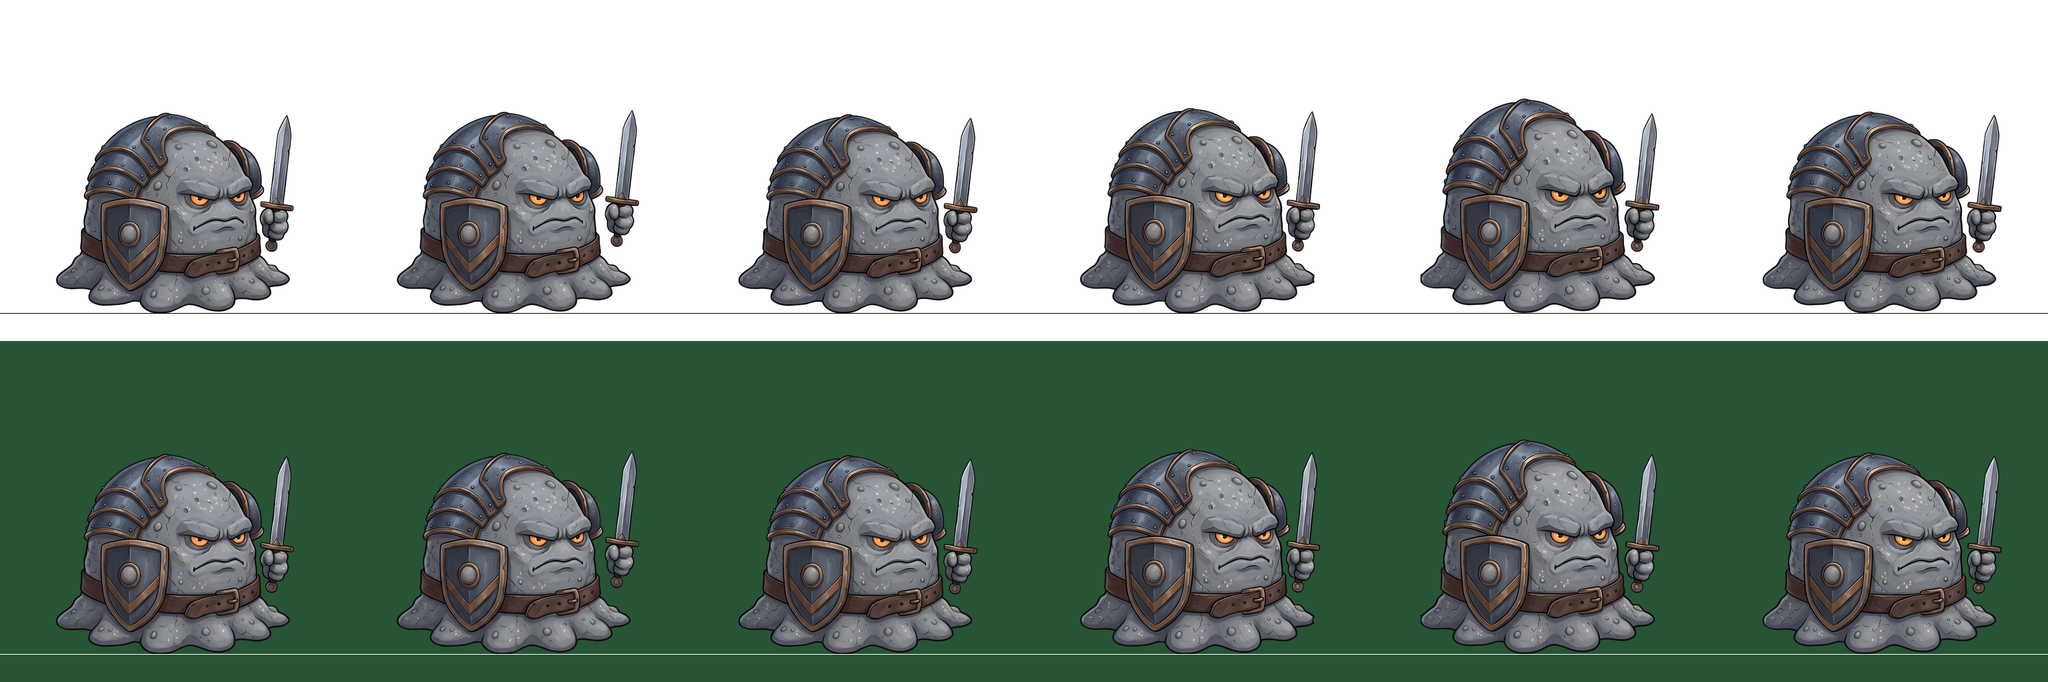
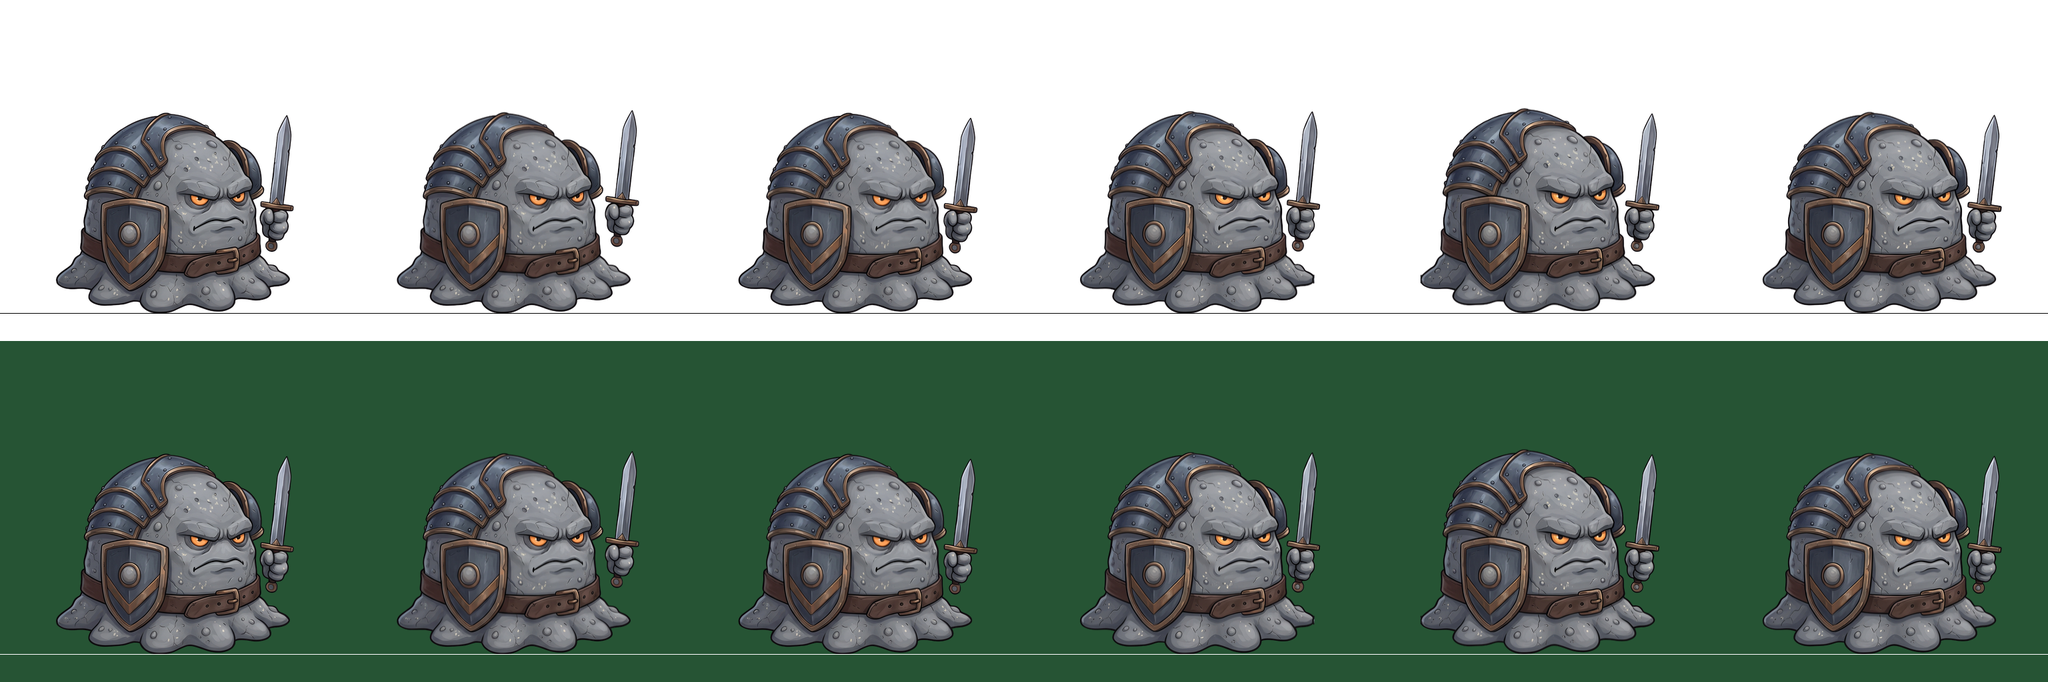
Elite slime: idle head toned down (dome warp keeps 30%), Sword Slash prompt
make_elite_idle_strip.py warps the body per frame through the measured rows (dome top range 24 px -> 7 px, fist untouched); sword_slash prompt (8 frames, overhead chop, hit frame 6); docs.

diff --git a/Animations/EliteSlime/idle/source/make_elite_idle_strip.py b/Animations/EliteSlime/idle/source/make_elite_idle_strip.py
@@ -1,11 +1,16 @@
 #!/usr/bin/env python3
 """Cuts the Elite slime's idle sheet (the user's Gemini JPG, 2528 x 1696, six panels, 3 x 2, 2026-11-10) into the 6-frame strip.
 
-  python Animations/EliteSlime/idle/source/make_elite_idle_strip.py [base_width]
+  python Animations/EliteSlime/idle/source/make_elite_idle_strip.py [base_width [keep]]
 
 elite_panels.load_panels (the lightning loader's cousin: the body is the biggest piece, the floating fist with its sword is kept and goes to the body it is nearest to; the generator drew the skirts of panels 4 and 5
-touching, they are split in the valley between them). Every panel is scaled so that its BASE is BASE_W px wide (default 350: the slimes' standard; at 300 the Elite came out smaller than the ice slime, the weakest of the others),
-stands on y 470 (the body's lowest point) with the base centre on x 259, and is written into a 512 px cell.
+touching, they are split in the valley between them). Every panel is scaled so that its BASE is BASE_W px wide (default 350: the slimes' standard), stands on y 470 (the body's lowest point) with the base centre
+on x 259, and is written into a 512 px cell.
+
+TONING THE HEAD DOWN (2026-11-10, the user: "head part bounce so much"). Measured on the cut strip (per part, rows against frame 1): the dome's top plate rises up to 21 px in frame 5 (7% of the figure), the face
+only 3, the shield 6, the belt 3, the skirt 0: the generator stretched the DOME upward far more than the prompt's 2%. So the body (not the fist and sword) is warped vertically, per frame, by a piecewise-linear
+row shift through the measured rows (skirt, belt, shield, face, top of the dome): only `keep` (default 0.3) of each part's measured movement is kept, the rest is taken out (keep 1 = as drawn, 0 = frozen).
+The floating fist and its sword are NOT warped: they stay the idle's visible life.
 Output: ../elite_idle_strip.png, ../elite_idle_strip.squash.json (per frame: h = height of the eyes above the ground and w = base width, against frame 1; fist = height of the fist's middle above the ground),
 ../elite_idle_check.png and a report.
 """
@@ -21,46 +26,102 @@ import elite_panels as ep
 SRC = os.path.join(HERE, "elite_idle_sheet.jpg")
 OUT = os.path.join(HERE, "..", "elite_idle_strip.png")
 BASE_W = float(sys.argv[1]) if len(sys.argv) > 1 else 350.0
+KEEP = float(sys.argv[2]) if len(sys.argv) > 2 else 0.3
 GROUND_Y, BASE_X, FRAME = 470, 259, 512
 SPLITS = [(826, 1380, 1660)]                         # the skirts of panels 4 and 5 touch at x 824 to 827 (31 px of overlap column at the narrowest)
+# rows (frame-1 coordinates, 512 cell, base 350) and column ranges of the parts whose shift is measured by matching against frame 1 (x0, x1, y0, y1)
+REGIONS = {"skirt": (100, 420, 410, 468), "belt": (100, 330, 375, 410), "shield": (100, 200, 290, 420), "face": (215, 335, 235, 330)}
+SEARCH = 30
 
 data = ep.load_panels(SRC, [3, 3], splits=SPLITS); P = data["panels"]
-out = Image.new("RGBA", (FRAME * 6, FRAME), (0, 0, 0, 0))
-rows = []
-print("panel | base w (sheet px) | scale | eyes above ground | base w | fist mid above ground | fist gap to body | figure top y | clipped | x range")
-for k, q in enumerate(P):
+
+
+def layers(q):
+    """(scale, ox, oy, full, body, fist): the panel placed in the 512 cell as one picture, and as the body alone and the floating fist alone."""
     sc = BASE_W / float(q["bw"])
     ox = int(round(BASE_X - ep.base_mid(q) * sc)); oy = int(round(GROUND_Y - q["low"] * sc))
-    fr, clipped = ep.place(q, sc, ox, oy)
+    mb = ndi.binary_dilation(q["main"], iterations=3); mf = ndi.binary_dilation(q["fist"], iterations=3) & ~mb
+    pb = q["p"].copy(); pb[..., 3] = np.where(mb, pb[..., 3], 0)
+    pf = q["p"].copy(); pf[..., 3] = np.where(mf, pf[..., 3], 0)
+    full, clipped = ep.place(q, sc, ox, oy)
+    body, _ = ep.place(dict(q, p=pb), sc, ox, oy); fist, _ = ep.place(dict(q, p=pf), sc, ox, oy)
+    return sc, ox, oy, full, body, fist, clipped
+
+
+def gray(im):
+    f = np.array(im).astype(float); a = f[..., 3] / 255
+    return (0.3 * f[..., 0] + 0.59 * f[..., 1] + 0.11 * f[..., 2]) * a + 90 * (1 - a)
+
+
+def top_row(im):
+    return int(np.where((np.array(im)[..., 3] > 128).any(1))[0].min())
+
+
+L = [layers(q) for q in P]
+G = [gray(l[3]) for l in L]
+shifts = []                                              # per frame: {part: rows the part sits higher (-) or lower (+) than in frame 1}
+for k in range(6):
+    s = {}
+    for nm, (x0, x1, y0, y1) in REGIONS.items():
+        base = G[0][y0:y1, x0:x1]; best = None
+        for dy in range(-SEARCH, SEARCH + 1):
+            ssd = ((G[k][y0 + dy:y1 + dy, x0:x1] - base) ** 2).mean()
+            if best is None or ssd < best[0]: best = (ssd, dy)
+        s[nm] = best[1]
+    s["top"] = top_row(L[k][4]) - top_row(L[0][4])       # the dome's top edge (the silhouette: the most reliable measure of the dome's stretch)
+    shifts.append(s)
+
+
+def warp(body, s):
+    """Vertical, row by row: the part measured at row y of frame 1 moves by s(y) in this frame; the output keeps only KEEP of that movement (sampling source row y + (1 - KEEP) s(y))."""
+    ys = [468, 440, 392, 355, 282, 205, 169]
+    sv = [0, s["skirt"], s["belt"], s["shield"], s["face"], 0.5 * (s["face"] + s["top"]), s["top"]]       # (row 205: half way up the dome)
+    order = np.argsort(ys); ys = np.array(ys)[order]; sv = np.array(sv, float)[order]
+    rows = np.arange(FRAME, dtype=float)
+    d = (1 - KEEP) * np.interp(rows, ys, sv)             # np.interp holds the end values: below the skirt 0, above the dome's top the top's shift
+    src = rows + d
+    arr = np.array(body).astype(float); pm = arr.copy(); pm[..., :3] *= (arr[..., 3:4] / 255)
+    out = np.zeros_like(pm)
+    y0 = np.clip(np.floor(src).astype(int), 0, FRAME - 1); y1 = np.clip(y0 + 1, 0, FRAME - 1); t = (src - np.floor(src))[:, None, None]
+    out = pm[y0] * (1 - t) + pm[y1] * t
+    out[(src < 0) | (src > FRAME - 1)] = 0
+    a = out[..., 3:4]; rgb = np.where(a > 0.5, out[..., :3] / np.maximum(a / 255, 1e-6), 0)
+    return Image.fromarray(np.dstack([np.clip(rgb, 0, 255), a]).astype(np.uint8))
+
+
+strip = Image.new("RGBA", (FRAME * 6, FRAME), (0, 0, 0, 0))
+rows_info = []
+print("panel | shifts vs frame 1 (skirt belt shield face top) | eyes above ground | base w | fist mid above ground | fist gap | figure top y | clipped")
+for k, q in enumerate(P):
+    sc, ox, oy, full, body, fist, clipped = L[k]
+    wb = warp(body, shifts[k]) if k else body
+    fr = Image.new("RGBA", (FRAME, FRAME), (0, 0, 0, 0)); fr.alpha_composite(wb); fr.alpha_composite(fist)
     arr = np.array(fr); a = arr[..., 3] > 128; ys, xs = np.where(a)
-    # eyes: the two biggest amber blobs (orange pupils)
-    R, G, B = arr[..., 0].astype(int), arr[..., 1].astype(int), arr[..., 2].astype(int)
-    amber = a & (R > 200) & (G > 110) & (G < 215) & (B < 110)
-    amber = ndi.binary_opening(amber, structure=np.ones((3, 3)))
+    R, G_, B = arr[..., 0].astype(int), arr[..., 1].astype(int), arr[..., 2].astype(int)
+    amber = ndi.binary_opening(a & (R > 200) & (G_ > 110) & (G_ < 215) & (B < 110), structure=np.ones((3, 3)))
     lab, n = ndi.label(amber); ey = None
     if n:
         sz = ndi.sum(amber, lab, range(1, n + 1)); top2 = np.argsort(sz)[::-1][:2]
         ey = float(np.mean([ndi.center_of_mass(lab == (i + 1))[0] for i in top2]))
-    # the fist and sword: the detached pieces' middle and their gap to the body (at the scaled size)
-    fm = np.array(Image.fromarray((q["fist"] * 255).astype(np.uint8)).resize((int(q["fist"].shape[1] * sc), int(q["fist"].shape[0] * sc)), Image.BILINEAR)) > 127
-    bm = np.array(Image.fromarray((q["main"] * 255).astype(np.uint8)).resize((int(q["main"].shape[1] * sc), int(q["main"].shape[0] * sc)), Image.BILINEAR)) > 127
-    fy, fx = np.where(fm)
-    gap = float(ndi.distance_transform_edt(~bm)[fm].min()) if fm.any() else float("nan")
-    fist_mid = GROUND_Y - (oy + float(np.mean(fy))) if len(fy) else float("nan")
-    out.alpha_composite(fr, (FRAME * k, 0))
-    rows.append((q["bw"] * sc, GROUND_Y - ey if ey is not None else float("nan"), fist_mid, gap))
-    print("  %d   |   %4d   | %.3f |   %5.1f   | %.0f |   %5.1f   |   %4.1f   | %3d | %d | %d..%d" % (k + 1, q["bw"], sc, rows[-1][1], q["bw"] * sc, fist_mid, gap, ys.min(), clipped, xs.min(), xs.max()))
-out.save(OUT)
-R = [round(r[1] / rows[0][1], 3) for r in rows]
-Q = [round(r[0] / rows[0][0], 3) for r in rows]
-F = [round(r[2], 1) for r in rows]
-print("eye height ratio:", R, "| base width ratio:", Q, "| fist mid above ground:", F)
-json.dump({"note": "per-frame proportions of the drawn slime against frame 1: h = height of the eyes above the ground, w = width of the base; fist = height of the floating fist's middle above the ground (px in the 512 cell); the page undoes a chosen share of the deformation",
+    fa = np.array(fist)[..., 3] > 128; fy, fx = np.where(fa); ba = np.array(wb)[..., 3] > 128
+    gap = float(ndi.distance_transform_edt(~ba)[fa].min()) if fa.any() else float("nan")
+    fist_mid = GROUND_Y - float(np.mean(fy)) if len(fy) else float("nan")
+    strip.alpha_composite(fr, (FRAME * k, 0))
+    rows_info.append((q["bw"] * sc, GROUND_Y - ey if ey is not None else float("nan"), fist_mid, gap))
+    s = shifts[k]
+    print("  %d   | %3d %3d %3d %3d %3d | %5.1f | %.0f | %5.1f | %4.1f | %3d | %d" % (k + 1, s["skirt"], s["belt"], s["shield"], s["face"], s["top"], rows_info[-1][1], q["bw"] * sc, fist_mid, gap, ys.min(), clipped))
+strip.save(OUT)
+R = [round(r[1] / rows_info[0][1], 3) for r in rows_info]
+Q = [round(r[0] / rows_info[0][0], 3) for r in rows_info]
+F = [round(r[2], 1) for r in rows_info]
+tops = [top_row(strip.crop((k * FRAME, 0, (k + 1) * FRAME, FRAME)).crop((0, 0, 370, FRAME))) for k in range(6)]
+print("KEEP", KEEP, "| eye height ratio:", R, "| base width ratio:", Q, "| fist mid above ground:", F, "| dome top rows:", tops)
+json.dump({"note": "per-frame proportions of the drawn slime against frame 1: h = height of the eyes above the ground, w = width of the base; fist = height of the floating fist's middle above the ground (px in the 512 cell); the page undoes a chosen share of the deformation. The dome's own stretch was already toned down in the strip (keep=%.2f, see make_elite_idle_strip.py)" % KEEP,
            "h": R, "w": Q, "fist": F, "match": [1.0] * 6}, open(os.path.join(os.path.dirname(OUT), "elite_idle_strip.squash.json"), "w"), indent=1)
-W, H = out.size
+W, H = strip.size
 pic = Image.new("RGB", (W, H * 2), (255, 255, 255))
 for i, bg in enumerate([(255, 255, 255, 255), (38, 84, 52, 255)]):
-    c = Image.new("RGBA", (W, H), bg); c.alpha_composite(out); pic.paste(c.convert("RGB"), (0, i * H))
+    c = Image.new("RGBA", (W, H), bg); c.alpha_composite(strip); pic.paste(c.convert("RGB"), (0, i * H))
 d = ImageDraw.Draw(pic)
 for i in range(2): d.line([(0, i * H + GROUND_Y), (W, i * H + GROUND_Y)], fill=(0, 0, 0) if i == 0 else (255, 255, 255), width=1)
 pic.resize((W * 2 // 3, H * 2 * 2 // 3), Image.LANCZOS).save(os.path.join(HERE, "..", "elite_idle_check.png"))

diff --git a/docs/MONSTERS.md b/docs/MONSTERS.md
@@ -442,3 +442,11 @@ The user's sheet (`inbox/Gemini_slime_elite_idle_sheet.jpg`, 2528 x 1696, 3 x 2,
 **Measured (at base 350):** eye height against frame 1 `[1.0, 1.003, 0.994, 1.024, 1.029, 1.004]` (so the whole breath is 3%: calm as asked), base width 1.0 in every frame, fist middle above ground `[182.8, 189.7, 180.2, 185.8, 183.2, 181.7]` px (the fist bobs by about 9 px, highest in frame 2, lowest in frame 3: not quite the order the prompt asked for, the motion is small and smooth anyway), gap between the fist and the body 5 to 8 px at the cut size (never joined), 0 px clipped, 0 pink pixels in any frame.
 
 **In the page:** `build.py` has `ELITESLIME_DIR` and the token `__ELITESLIME_ANIMS__`; the page has `MONSTERS.elite_slime = { name: "Elite Slime", ..., sizeDef: 100, sqDef: 100 }` (NO `vfx`: no element, so the Fx slider and the aura canvases stay hidden) and the select option "Elite slime (idle only so far)". Checked in the browser pane: the select shows it, six frames cycle at 8 fps, it stands on the floor facing the warrior at about the warrior's height, a whole fight (win) runs on the placeholder fallbacks (the slide, flash and fade for the attack, hit and death) with no console error. **Next: the Elite's other animations** (attack = Sword Slash, hit, death, dodge, then the skills Shield Bash, Rockfall Drop (bounce), Earthbreaker (eruption), Stone Guard (self buff)); prompts are written one at a time like the other slimes', each cut with `elite_panels.py` (`load_panels` keeps the fist; a swing that raises the fist very high may need a bigger `min_piece`/distance check: it prints a warning when a piece is more than 150 px from every body).
+
+### Elite idle: the head toned down (2026-11-10, the user: "head part bounce so much")
+
+The user was right, and my eye-height number had hidden it. Measured on the first cut strip (each part matched against frame 1, rows; negative = higher): **the dome's top plate rose 21 to 24 px in frame 5 (7% of the figure)** and 7 px in frame 4, while the face moved only 3 to 5 px, the shield 3 to 6, the belt 1 to 3 and the skirt 0: the generator stretched the DOME upward about three times more than the prompt's 2%, and the eyes (the only thing I had measured) barely showed it. **Fix (in the cutter, not a page slider): `make_elite_idle_strip.py [base_width [keep]]` warps the BODY vertically, per frame, with a piecewise-linear row shift through the measured rows (skirt 468, belt 392, shield 355, face 282, half way up the dome 205, the dome's top 169) and keeps only `keep` = 0.3 of each part's measured movement** (1 = as drawn, 0 = frozen). The floating fist and its sword are NOT warped (they are the idle's life; they move 9 px up and down). Result: the dome's top row over the six frames `[169, 169, 170, 167, 163, 168]` (a 7 px range instead of 24), the face's worst frame 1 to 2 px, eye height ratio `[1.0, 1.001, 0.997, 1.006, 1.017, 1.003]`, no visible warp in the frames. The page's Squash slider (default 100% for the Elite) is left as it was. To tone it down more or less, change `keep` and rebuild (`python Animations/EliteSlime/idle/source/make_elite_idle_strip.py 350 0.15`, then `build.py` and copy the html). **Lesson for the next Elite sheets: measure the dome's TOP and the shield, not only the eyes** (the other slimes squash as one jelly, the Elite's armour does not).
+
+### Elite Sword Slash: the prompt is written (2026-11-10)
+
+`Animations/EliteSlime/sword_slash/source/sword_slash_gemini_prompt.txt` (8 frames, 4 x 2, a 2:1 image, magenta, attach `reference_image.png`). The Elite's basic attack is the first real POSE CHANGE of a slime (the others spit from where they stand), so the design is: a heavy overhead chop. **Frames:** 1 rest, 2 gather (crouch 7%, lean back 3), 3 lift (fist up 30%, sword to 11 o'clock), 4 top of the wind-up (dome 5% taller, lean back 9, fist up 45%, sword to 10:30, tip above the dome, never touching it), 5 the chop begins (dome 8% lower, lean FORWARD 8, sword to 2 o'clock, fist high in front of and above the face), **6 the STRIKE = the hit frame** (dome 12% lower, lean forward 14, eyes slits, mouth open, blade pointing STEEPLY down and a little forward = 5 o'clock, tip just above the floor), 7 follow-through (belt height, blade almost straight down), 8 recover. **Why the blade ends steeply down, not horizontal:** the sword is about two thirds of the dome's height (about 200 px at the 350 px base) and the cell is a fixed 512 px square with the base centre at x 259, so a horizontal sword would stretch 200 px past the rest outline and be cut off; pointing at 5 o'clock the tip stays about 220 px right of the base centre. The sword is described with clock hands (12 up, 3 horizontal, 6 down) because the generator follows that better than degrees. **Rules in it:** the body is heavy stone that only rocks on its base (rises or lowers a few percent and LEANS; no jelly squash), the armour and shield ride with it as one hard piece, the fist and sword are ONE rigid piece floating with a gap in every panel, the base stays on the same spot and width (so the page moves the whole sprite: the STEP-IN, the slash trail, the dust and the shake are the page's job), and a SMALLER creature than the idle's (base 46% of the panel, centre at 40% of the panel's width, because the generator drew the idle sheet's creature at 94% instead of the asked 72% and the swing needs room; the cutter scales every panel to the base width anyway). Ten-point check list, nine ready replies (slash arc or motion lines, fist joined, sword changes size, armour moves, jelly squash, too big, sword horizontal in the strike, wrong background, glossy) and an optional second try with the idle sheet are in the file. Next: the user generates it (`inbox/Gemini_slime_elite_sword_slash_sheet.jpg`); I cut it (`elite_panels.py`; add `"sword_slash": "attack"` to `SLOTS` in build.py), check the extents (a clipped sword needs that frame scaled down), write the page's melee attack (the step-in toward the target, hit at frame 6) and then the hit, death and dodge prompts.
